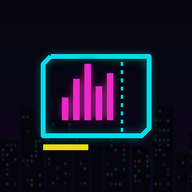
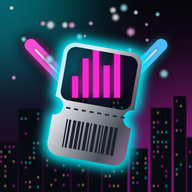
主畫面圖示改用 11 結合版（城市夜景＋鉻金票根＋螢光棒）

diff --git a/sw.js b/sw.js
@@ -1,5 +1,5 @@
 // 離線快取：App 外殼採 cache-first，字型採 stale-while-revalidate
-const VERSION = 'neonlive-v2';
+const VERSION = 'neonlive-v3';
 const SHELL = [
   './',
   './index.html',
